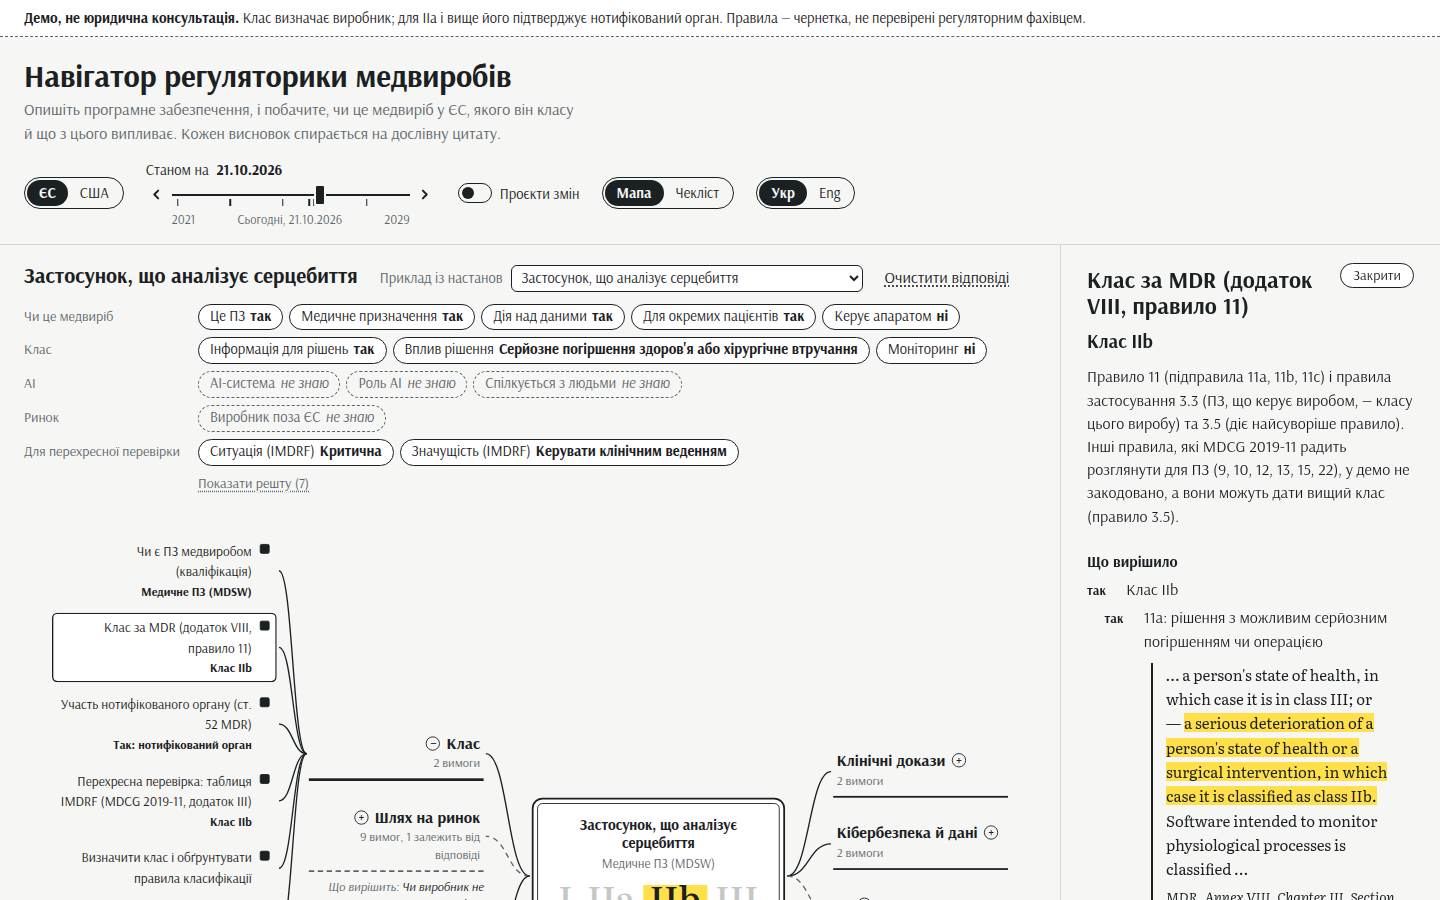
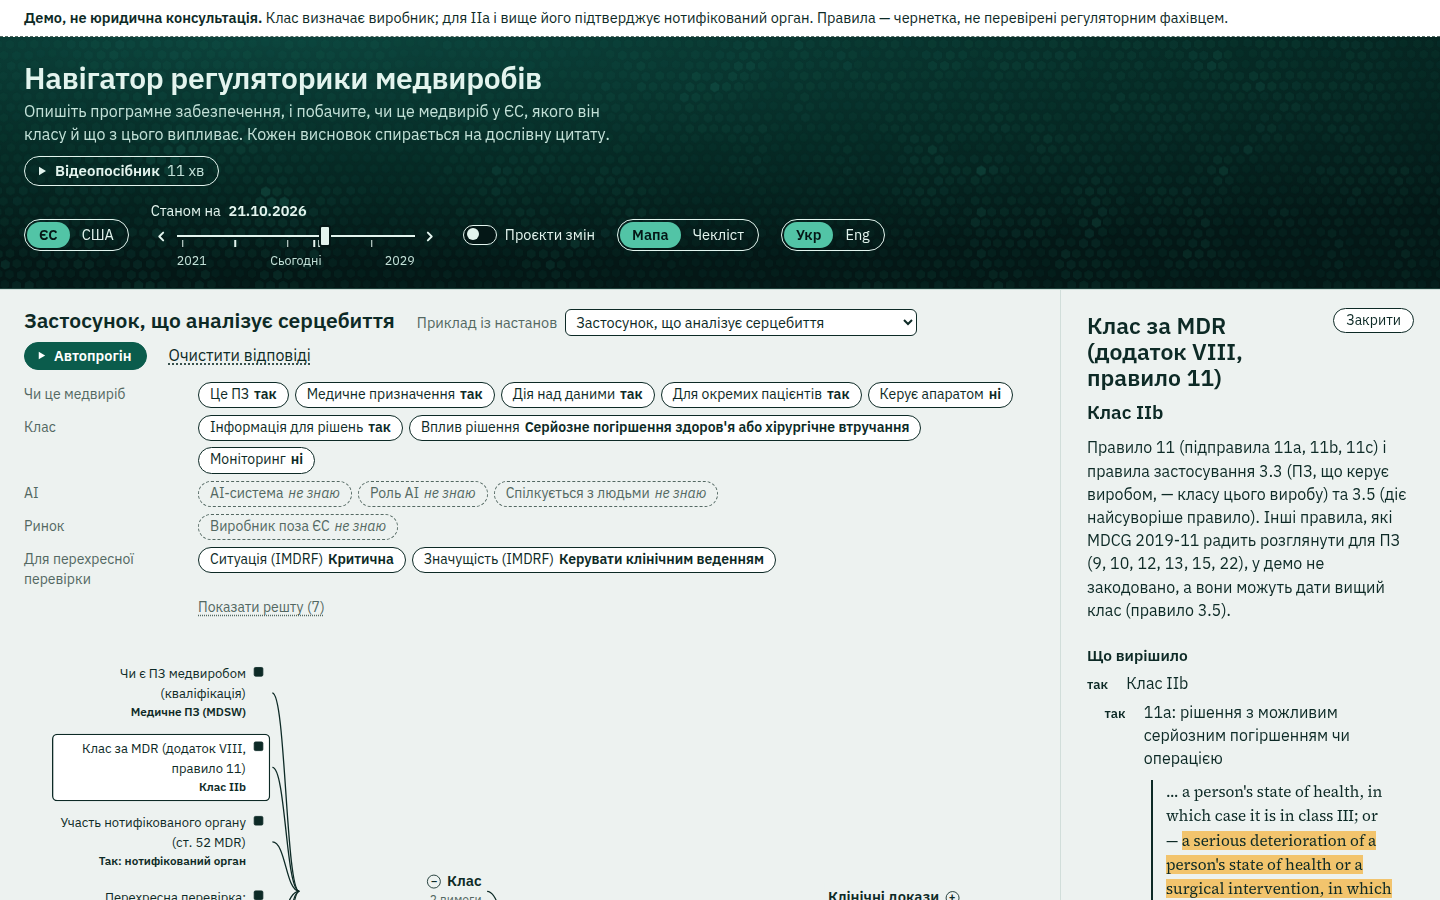
Docs: the guided run in the README, new screenshots
- README: what the guided run does; the screenshots retaken in the new
  look (MRN_DOCS_SCREENS=docs/screens pnpm e2e
  apps/web/e2e/screens.e2e.ts), three of them new (a step, the summary, a
  phone); the video guide was recorded before the design change of
  28 Oct 2026.
- SPEC §5 points to U1–U13.

diff --git a/README.md b/README.md
@@ -14,7 +14,9 @@
 **Відеопосібник** (10:46, озвучка англійською, субтитри українською, 10 розділів): кнопка «Відеопосібник» під
 заголовком демо відкриває програвач зі списком розділів. Що відповідає демо, як читати мапу й картки і наскільки йому
 довіряти — на тих самих екранах. Файл лежить поруч зі сторінкою
-([`apps/web/public/video/`](apps/web/public/video/)), тож демо й далі не звертається до інших доменів.
+([`apps/web/public/video/`](apps/web/public/video/)), тож демо й далі не звертається до інших доменів. Відео записано
+до зміни дизайну 28.10.2026: на ньому попередній вигляд, без палітри «море» й без автопрогону; мапа, картка й чекліст
+працюють так само.
 
 ![Мапа вимог для застосунку, що аналізує серцебиття: клас IIb, розгорнута гілка «шлях на ринок», картка «як виконати» з цитатою; наведення на вимогу підсвічує атрибути, що її спричинили](docs/screens/01-map.png)
 
@@ -31,6 +33,15 @@
   дослівними цитатами.
 - **«Не знаю» — теж відповідь.** Тризначна логіка: невідомий атрибут дає множину можливих результатів, а не вгадування;
   питання, що їх звузять, стоять просто на мапі, кожне один раз.
+- **Автопрогін.** Кнопка «Автопрогін» біля «Приклад із настанов» проходить поточний опис ПЗ (приклад або відповіді з
+  посилання) з чистого аркуша: кожен крок — перше питання, яке поставили б правила в тому порядку, у якому їх читають.
+  Відповідь прогін бере з опису, а якої в описі немає — питає просто в картці кроку; «Не знаю» лишає її невідомою, і
+  прогін іде далі. Картка кроку показує питання й відповідь, що змінилося (можливі класи, кваліфікація, нотифікований
+  орган, AI Act, скільки вимог застосовується) і вузол, що вирішив, з дослівною цитатою, перевіреною в браузері.
+  Наприкінці — підсумок: результат кожного правила, що лишилося невідомим, і які акти виконувати: застосовні вимоги за
+  актом і статтею з їхніх цитат, з датами чинності станом на обрану дату. Крок триває ≈ 4 с; є пауза, «Назад» і «Далі»,
+  клавіші ← → і пробіл; мапа й чекліст оновлюються на кожному кроці, змінені чип і гілки коротко переливаються; крок
+  записується в адресу сторінки, тож посиланням можна поділитися.
 - **Станом на дату.** Повзунок із ключовими датами з даних: що вже чинне, що застосовуватиметься пізніше.
 - **Проєкти змін.** Перемикач показує червоною ручкою, як змінився б результат, якби ухвалили пропозицію Єврокомісії
   COM(2025) 1023 (нове правило 11), з матрицею переходів класів на синтетичній когорті.
@@ -79,6 +90,9 @@
 | ![Чекліст: ті самі дані як документ](docs/screens/05-checklist.png) | **Чекліст.** Повна альтернатива мапі з тих самих даних: результати правил, відкриті питання з відповідями просто в списку, обов'язки з «як виконати» й цитатами. |
 | ![Телефон: чекліст за замовчуванням](docs/screens/06-phone.png) | **На телефоні** чекліст — подання за замовчуванням. |
 | ![Темна схема, англійська](docs/screens/07-dark-en.png) | **Англійська й темна схема** — перемикачем мови й за налаштуванням системи. |
+| ![Автопрогін, крок 7 з 11: «Чи керує ПЗ апаратним медвиробом?» — з опису «ні»; клас стає IIb, картка цитує правило застосування 3.3](docs/screens/09-guided-step.png) | **Автопрогін.** Застосунок, що аналізує серцебиття, з чистого аркуша: на сьомому кроці відповідь «не керує апаратом» лишає тільки клас IIb. Картка показує, що змінилося, і вузол, що вирішив, з дослівною цитатою. |
+| ![Підсумок автопрогону: результати правил, нічого не лишилося невідомим, вимоги за актом і статтею](docs/screens/10-guided-summary.png) | **Підсумок.** Результат кожного правила, що лишилося невідомим, і які акти виконувати: застосовні вимоги, згруповані за актом і статтею з їхніх цитат, з датами чинності. |
+| ![Автопрогін на телефоні: картка кроку над чеклістом](docs/screens/11-guided-phone.png) | **Автопрогін на телефоні** — картка кроку над чеклістом. |
 
 ## Аналіз правил
 

diff --git a/docs/SPEC.md b/docs/SPEC.md
@@ -73,10 +73,12 @@
 тих самих даних (телефон, екранні читачі). Українська за замовчуванням, EN — перемикачем. Банер-дисклеймер завжди.
 Розклад графа — `d3-hierarchy`, без ручних координат.
 
-Як це втілено (DECISIONS U1–U11): у вузлі пристрою — драбина класів I · IIa · IIb · III, де визначений клас виділено
+Як це втілено (DECISIONS U1–U13): у вузлі пристрою — драбина класів I · IIa · IIb · III, де визначений клас виділено
 маркером, а можливі — підкреслено пунктиром; чорнило — усталене, олівець — чекає відповіді, крапки — з дати, маркер —
 причина й наслідок, червона ручка — проєкти змін. Що де показати, каже `data/navigator.json`; кожну цитату браузер
-перевіряє за sha256 секції. Ринок США — заглушка «наступний етап».
+перевіряє за sha256 секції. Ринок США — заглушка «наступний етап». Вигляд — як в інших демо автора (палітра «море»,
+шестикутники-хвилі в шапці, коротке переливання на дію; U12). «Автопрогін» проходить опис з чистого аркуша питаннями
+навігатора, з карткою кроку й підсумком «які акти виконувати» (U13).
 
 ## 6. Аналіз
 
